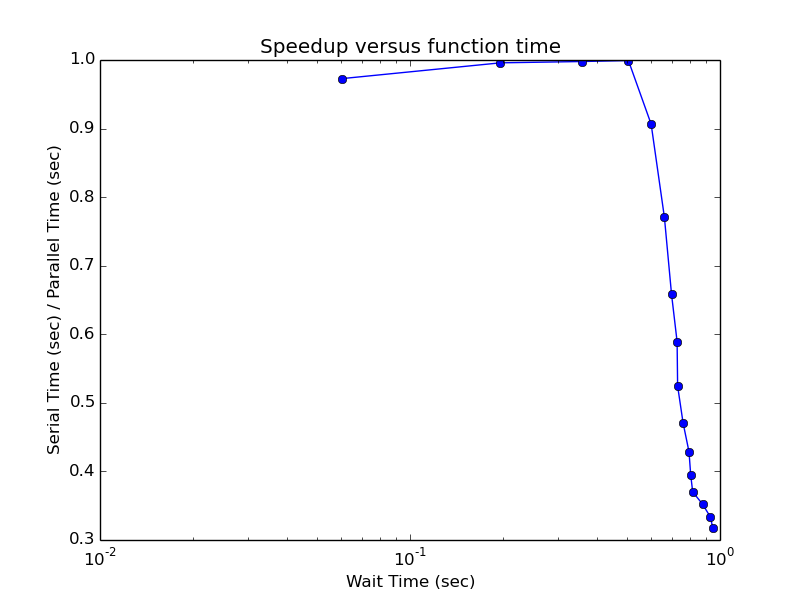
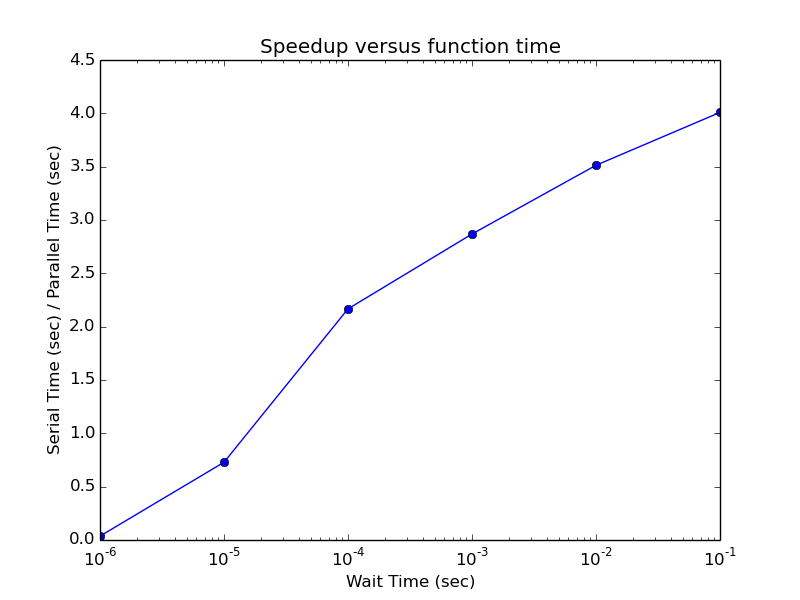
Modified P6B

diff --git a/HW0/P6/P6B.py b/HW0/P6/P6B.py
@@ -4,10 +4,11 @@ import matplotlib.pyplot as plt
 import random as rand
 import numpy as np
 import sys
+import pdb
 # Sleep for t seconds
 def burnTime(t):
     time.sleep(t)
-    return time.time()
+    return
 # Main
 if __name__ == '__main__':
     N = 16  # The number of jobs
@@ -19,29 +20,29 @@ if __name__ == '__main__':
 
     # Use a variety of wait times
     ratio = []
-    wait_time = []
-    for i in range(16):
-        wait_time.append(rand.uniform(0.000001,1))
+    wait_time = [0.000001,0.00001,0.0001,0.001,0.01,0.1]
+    # for i in range(10):
+    #     wait_time.append(rand.uniform(0.000001,1))
 
-    wait_time = np.sort(wait_time)
-    parallelStartTime = time.time()
-    parallelResult = pool.map(burnTime,wait_time)
-    parallelElapsedTime = time.time() - parallelStartTime
-    parallelResult = np.array(parallelResult)
-    parallelResult -= parallelStartTime
-    serialStartTime = time.time()
-    serialResult = []
-    for t in wait_time:
-        temp1 = time.time()
-        temp2 = burnTime(t)
-        serialResult.append(temp2-temp1)
-        serialTime = 1
-        parallelTime = 1
+    #wait_time = np.sort(wait_time)
+    parallelTimes = []
+    serialTimes = []
+    #pdb.set_trace()
+    for i in range(len(wait_time)):
+        start1 = time.time()
+        for j in range(16):
+            burnTime(wait_time[i])
+        serialTimes.append(time.time() - start1)
+    for i in range(len(wait_time)):
+        start = time.time()
+        parallelResult = pool.map(burnTime,[wait_time[i]]*16)
+        parallelTimes.append(time.time()-start)
+    
         # Compute jobs serially and in parallel
         # Use time.time() to compute the elapsed time for each
         # Compute the ratio of these times
         # ratio.append(serialTime/parallelTime)
-    serialElapsedTime = time.time() - serialStartTime
+
     #print "serialElapsedTime",serialElapsedTime
     #print "parallelElapsedTime",parallelElapsedTime
     #print "parallelResult=",parallelResult
@@ -60,18 +61,23 @@ if __name__ == '__main__':
     # f.write(']\n')
     
     # Plot the results
-    for i in range(len(serialResult)):
-        ratio.append(serialResult[i]/parallelResult[i])
+    
     # f.write('Ratios = [')
     # for x in ratio:
     #     f.write("%s " % x)
     # f.write(']\n')
     #print "ratio=",ratio
+    ratios = []
+    for i in range(len(serialTimes)):
+        ratios.append(serialTimes[i]/parallelTimes[i])
+    print 'serialTimes',serialTimes
+    print 'parallelTimes',parallelTimes
+    print 'ratios',ratios
     #print "Waittime=",wait_time
-    plt.plot(wait_time, ratio, '-ob')
+    plt.plot(wait_time, ratios, '-ob')
     plt.xscale('log')
     plt.xlabel('Wait Time (sec)')
     plt.ylabel('Serial Time (sec) / Parallel Time (sec)')
     plt.title('Speedup versus function time')
-    #plt.savefig('P6B.png')
+    plt.savefig('P6B.png')
     plt.show()
